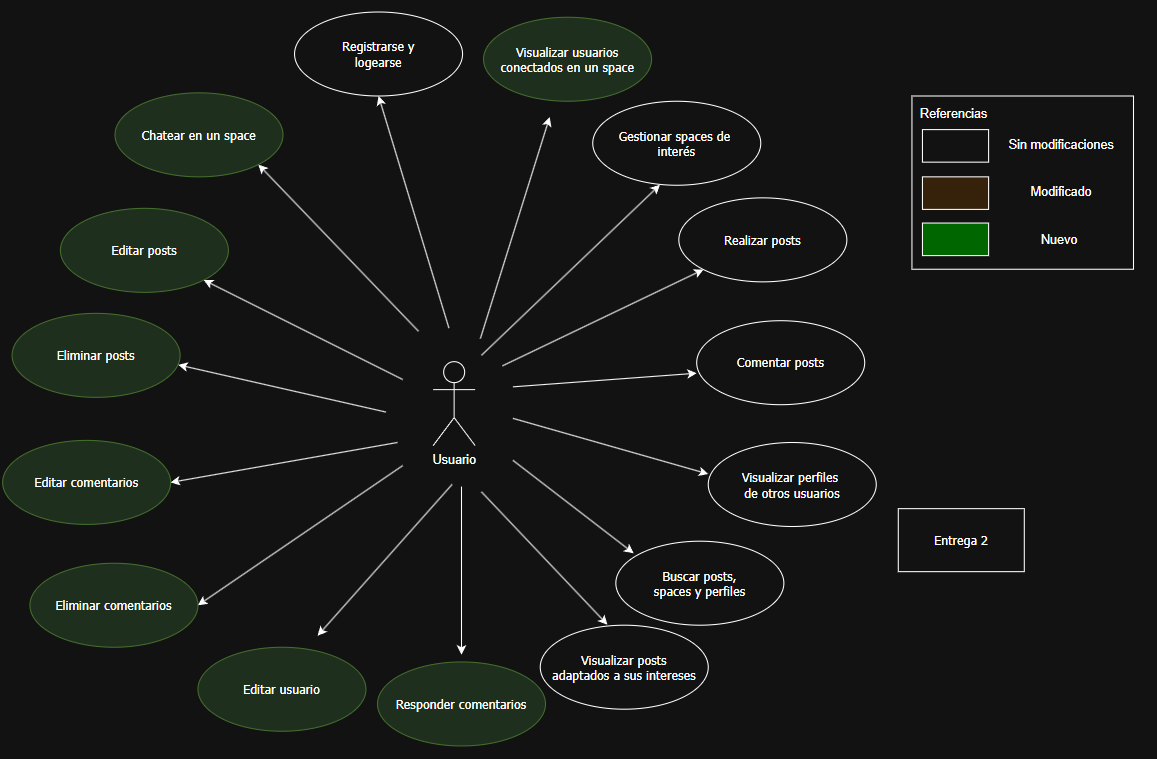
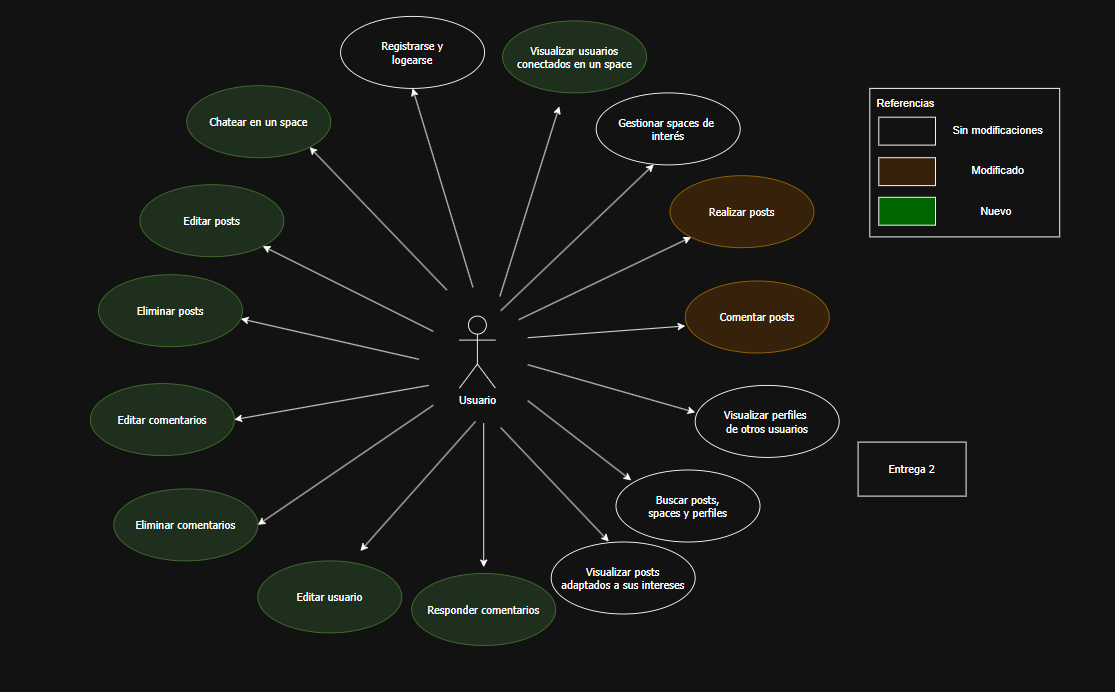
.

diff --git a/entrega-2/README.md b/entrega-2/README.md
@@ -3,9 +3,10 @@
 ## 🎯 Objetivos de la iteración
 En esta segunda entrega, nos centramos en expandir las funcionalidad de la plataforma CPIHub, dandole prioridad entre las relaciónes de los usuarios con la generación de chats de textos, visualización de estado de conexión y la posibilidad de responder comentarios, fomentando así una comunicación más dinámica y fluida entre los miembros de la comunidad. Ademas de agregar caracteristicas escenciales como la edición de perfiles, posteos y comentarios, puntos claves que mejoran la experiencia del usuario y su interacción dentro de la plataforma. Como agregado, seguimos trabajando en la mejora de la interfaz y experiencia del usuario para hacerla más intuitiva y atractiva.
 
-## 🧩 Nuevas funcionalidades
+## 🧩 Funcionalidades de la entrega
 ![Casos de uso](usecases2.png)
 
+## 📋 Descripción de las funcionalidades nuevas
 
 ### 🗨 Chatear en un space  
 - El usuario accede al chat de un space de interés.  
@@ -69,3 +70,17 @@ En esta segunda entrega, nos centramos en expandir las funcionalidad de la plata
 - El sistema habilita un campo de texto vinculado al comentario original.  
 - El usuario escribe y envía su respuesta.  
 - El sistema publica la respuesta de forma anidada, mostrando la relación entre comentario y respuesta.  
+
+## 📋 Descripción de las funcionalidades modificadas
+
+### 🖼 Subir imágenes en posts
+- El usuario puede seleccionar una imagen desde su dispositivo para incluirla en un post.
+- El sistema permite previsualizar la imagen antes de publicarla.
+- Al publicar el post, la imagen se muestra junto con el texto en el feed.
+- Se implementa un límite de tamaño y formato para las imágenes permitidas.
+
+### 🖼 Subir imágenes en comentarios
+- El usuario puede seleccionar una imagen desde su dispositivo para incluirla en un comentario.
+- El sistema permite previsualizar la imagen antes de publicarla.
+- Al publicar el comentario, la imagen se muestra junto con el texto en el feed.
+- Se implementa un límite de tamaño y formato para las imágenes permitidas.
